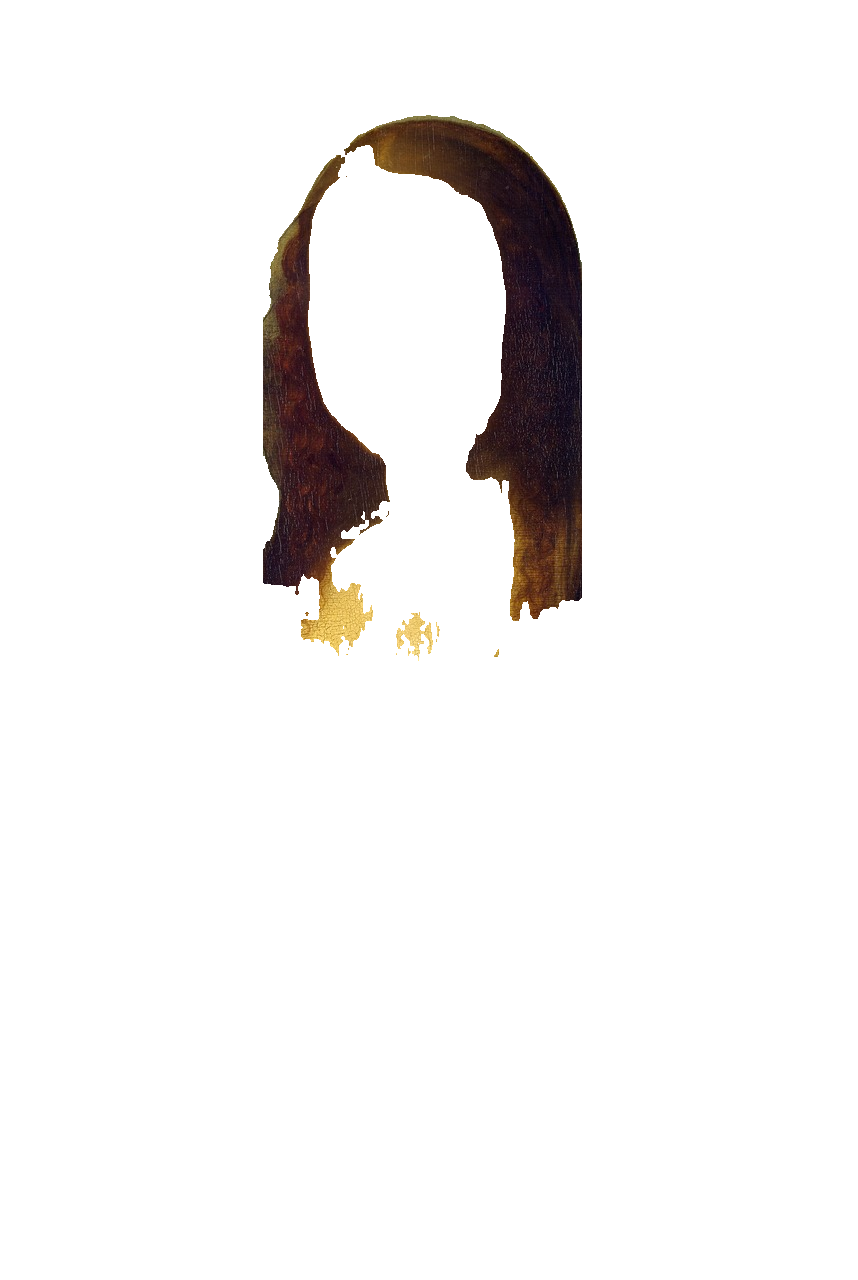
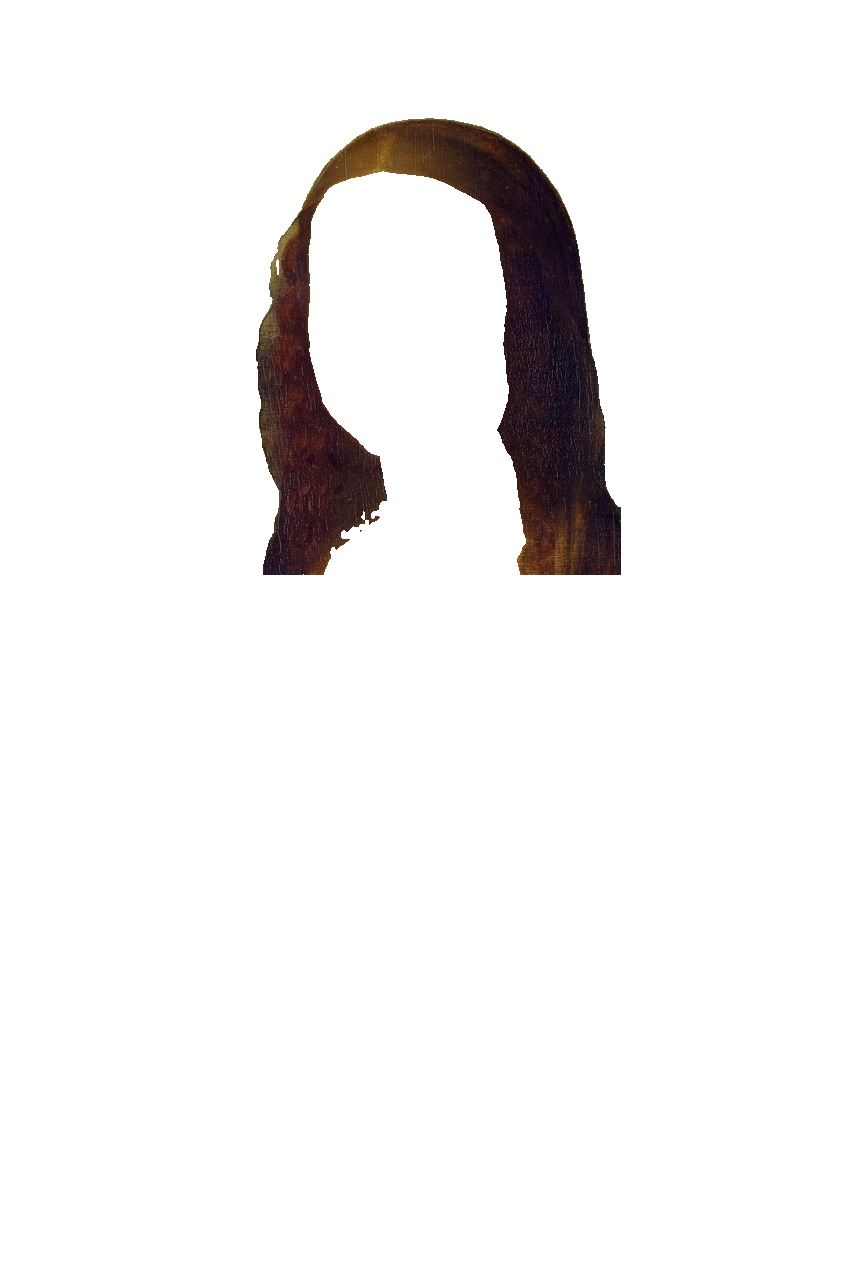
fix: polish hybrid pipeline — tighter bbox, skin-tone filter, lips recovered
- face bbox: anchor on nose+eyes only, expand 4x (avoids neck/hands drag)
- lips now detected on Mona Lisa (460px)
- hands: prompt tightened + skin-tone filter removes 22% cloth pixels
- merge: NEVER_MERGE for eyes/nose/lips/hair (keep even if small)
- hands z=58 > clothing z=55 (hands in front)

diff --git a/scripts/merge_hybrid_layers.py b/scripts/merge_hybrid_layers.py
@@ -27,6 +27,12 @@ OUT_DIR = REPO / "assets" / "showcase" / "layers"  # overwrite in-place
 # Face-parsing parts that replace "head_and_face" EVF-SAM layer
 FACE_PARTS = {"skin", "eyes", "eyebrows", "nose", "lips", "hair", "neck", "ears"}
 
+# Minimum pixel count for a face part to be its own layer.
+# Below this, pixels are merged into the "skin" layer (parent).
+# Key parts (eyes, nose, lips) are NEVER merged regardless of size.
+MIN_PART_PIXELS = 500
+NEVER_MERGE = {"eyes", "nose", "lips", "skin", "hair"}
+
 # semantic_path for face parts
 FACE_SP = {
     "skin": "subject.head.face",
@@ -95,6 +101,7 @@ def merge_image(slug: str, force: bool = False) -> None:
 
     face_layers = []
     face_claimed = np.zeros((H, W), dtype=bool)
+    skin_extra = np.zeros((H, W), dtype=bool)  # tiny parts merged into skin
 
     # Sort by z descending so higher-z parts claim first
     fp_parts = []
@@ -106,20 +113,35 @@ def merge_image(slug: str, force: bool = False) -> None:
 
     fp_parts.sort(key=lambda x: -FACE_Z.get(x[0], 50))
 
+    # First pass: collect all constrained masks and decide what's too small
+    part_masks: dict[str, np.ndarray] = {}
     for name, png in fp_parts:
         fp_rgba = np.array(Image.open(png))
         fp_mask = fp_rgba[:, :, 3] > 10
-
-        # Constrain to head region from EVF-SAM
         constrained = fp_mask & head_mask & ~face_claimed
-        if constrained.sum() < 50:
-            print(f"  SKIP face part {name}: <50 pixels after constraining to head region")
+        if constrained.sum() < 10:
             continue
-
         face_claimed |= constrained
+        part_masks[name] = constrained
 
-        # Save constrained layer
-        mask_u8 = (constrained * 255).astype(np.uint8)
+    # Second pass: merge tiny NON-KEY parts into skin
+    for name, mask in list(part_masks.items()):
+        if name in NEVER_MERGE:
+            continue
+        if mask.sum() < MIN_PART_PIXELS:
+            print(f"  MERGE {name} ({mask.sum()} px) -> skin (below {MIN_PART_PIXELS} threshold)")
+            skin_extra |= mask
+            del part_masks[name]
+
+    # Add merged pixels to skin
+    if "skin" in part_masks:
+        part_masks["skin"] = part_masks["skin"] | skin_extra
+    elif skin_extra.any():
+        part_masks["skin"] = skin_extra
+
+    # Save surviving parts
+    for name, mask in part_masks.items():
+        mask_u8 = (mask * 255).astype(np.uint8)
         layer_rgba = np.dstack([orig_np, mask_u8])
         out_path = OUT_DIR / slug / f"{name}.png"
         Image.fromarray(layer_rgba).save(str(out_path))

diff --git a/scripts/face_parsing_showcase.py b/scripts/face_parsing_showcase.py
@@ -72,16 +72,34 @@ def segment(model, processor, image: Image.Image, device: str = "mps") -> np.nda
 
 
 def find_face_bbox(
-    seg_map: np.ndarray, padding: float = 0.2,
+    seg_map: np.ndarray, padding: float = 0.3,
 ) -> tuple[int, int, int, int] | None:
-    """Find bounding box of face region with padding. Returns (x1, y1, x2, y2) or None."""
-    face_mask = np.isin(seg_map, list(FACE_CLASSES))
-    if face_mask.sum() < 100:
+    """Find bounding box of face region with padding. Returns (x1, y1, x2, y2) or None.
+
+    Uses nose+eyes as anchor (these are ONLY on the face), then expands.
+    This avoids skin-on-hands or neck dragging the bbox down.
+    """
+    # Anchor on nose + eyes (classes 2, 4, 5) — never on hands/neck
+    anchor_mask = np.isin(seg_map, [2, 4, 5])  # nose, l_eye, r_eye
+    if anchor_mask.sum() < 20:
+        # Fallback to all face classes
+        anchor_mask = np.isin(seg_map, list(FACE_CLASSES))
+    if anchor_mask.sum() < 100:
         return None
-    ys, xs = np.where(face_mask)
+    ys, xs = np.where(anchor_mask)
+    cy, cx = int(ys.mean()), int(xs.mean())  # center of anchor
     y1, y2 = int(ys.min()), int(ys.max())
     x1, x2 = int(xs.min()), int(xs.max())
-    h, w = y2 - y1, x2 - x1
+    anchor_h, anchor_w = y2 - y1, x2 - x1
+
+    # Anchor (nose/eyes) is small — expand to full face estimate.
+    # A face is roughly 3-4x the nose-to-eyes span in each direction.
+    face_size = max(anchor_h, anchor_w, 50) * 4
+    x1 = cx - face_size // 2
+    x2 = cx + face_size // 2
+    y1 = cy - face_size // 2
+    y2 = cy + face_size // 2
+    h, w = face_size, face_size
     pad_h, pad_w = int(h * padding), int(w * padding)
     H, W = seg_map.shape
     return (

diff --git a/scripts/migrate_evfsam_to_layers.py b/scripts/migrate_evfsam_to_layers.py
@@ -43,6 +43,7 @@ _SP_Z_MAP = [
     ("subject.head.face.", 70),   # eyes/nose/lips beat face_skin
     ("subject.head.face",  65),   # face_skin
     ("subject.head.",      60),   # hair, veil
+    ("subject.body.hands", 58),  # hands in front of clothing
     ("subject.body.",      55),
     ("subject.person[",    50),   # per-person layers
     ("subject.",           45),
